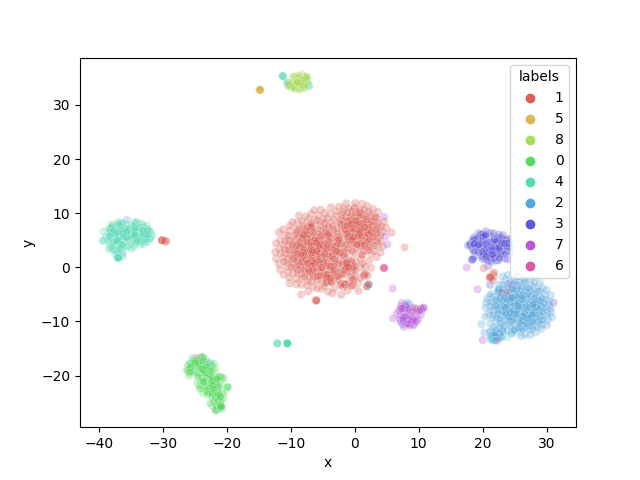
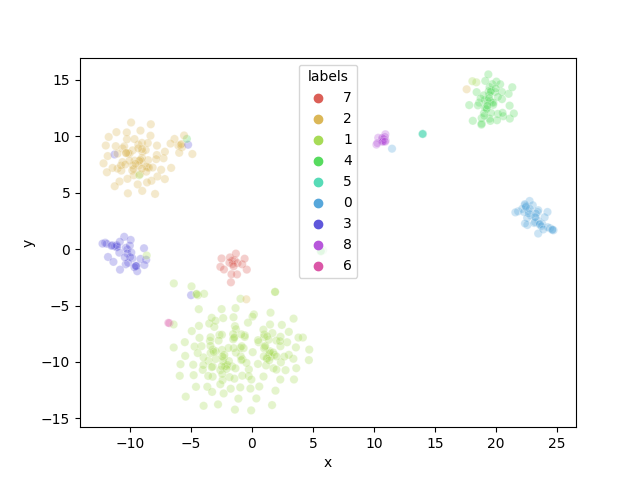
okay

diff --git a/plot_clusters.py b/plot_clusters.py
@@ -1,26 +1,34 @@
 import matplotlib.pyplot as plt
 import pandas as pd
 import numpy as np
-
-dataset_name = 'muraro'
-original_train = pd.read_csv(f'./data/split_data/train/{dataset_name}/original/{dataset_name}.csv', header=None)
-original_test = pd.read_csv(f'./data/split_data/test/{dataset_name}/original/{dataset_name}.csv', header=None)
-train_labels = pd.read_csv(f'./data/split_data/train/{dataset_name}/original/labels/{dataset_name}_labels.csv', header=None)
-test_labels = pd.read_csv(f'./data/split_data/test/{dataset_name}/original/labels/{dataset_name}_labels.csv', header=None)
-
-#merge the train and test data
-original_df = pd.concat([original_train, original_test])
-labels_df = pd.concat([train_labels, test_labels])
-
-#plot 2 dimensional data UMAP plots
 from sklearn.manifold import TSNE
 from sklearn.decomposition import PCA
 import umap
 import matplotlib.pyplot as plt
 import seaborn as sns
+from pathlib import Path
+
+dataset_name = 'muraro'
+original_test = pd.read_csv(f'./data/split_data/test/{dataset_name}/original/{dataset_name}.csv', header=None)
+test_labels = pd.read_csv(f'./data/split_data/test/{dataset_name}/original/labels/{dataset_name}_labels.csv', header=None)
+
+zero_four_dropout_test = f'baseline_outputs/autoclass/muraro/zero_four_dropout/autoclass_imputed.csv'
+
+zero_four_dropout_test = pd.read_csv(zero_four_dropout_test, header=None)
+
+
+
+
+#merge the train and test data
+original_df = original_test
+labels_df = test_labels
+
+#plot 2 dimensional data UMAP plots
+
 
 data = original_df.values
 labels = labels_df.values
+data_dropout = zero_four_dropout_test.values
 
 #plot TSNE plots
 
@@ -40,6 +48,28 @@ sns.scatterplot(
     legend="full",
     alpha=0.3
 )
-from pathlib import Path
+
+
 Path(f'./plots/tsne_plots').mkdir(parents=True, exist_ok=True)
 plt.savefig(f'./plots/tsne_plots/{dataset_name}_tsne.png')
+
+tsne = TSNE(n_components=2)
+tsne_results = tsne.fit_transform(data_dropout)
+tsne_df = pd.DataFrame(tsne_results)
+tsne_df['labels'] = labels
+tsne_df.columns = ['x','y','labels']
+tsne_df['labels'] = tsne_df['labels'].astype(str)
+num_labels = len(np.unique(labels))
+plt.figure()
+sns.scatterplot(
+    x="x", y="y",
+    hue="labels",
+    palette=sns.color_palette("hls", num_labels),
+    data=tsne_df,
+    legend="full",
+    alpha=0.3
+)
+
+Path(f'./plots/tsne_plots').mkdir(parents=True, exist_ok=True)
+plt.savefig(f'./plots/tsne_plots/{dataset_name}_zero_four_tsne.png')
+
